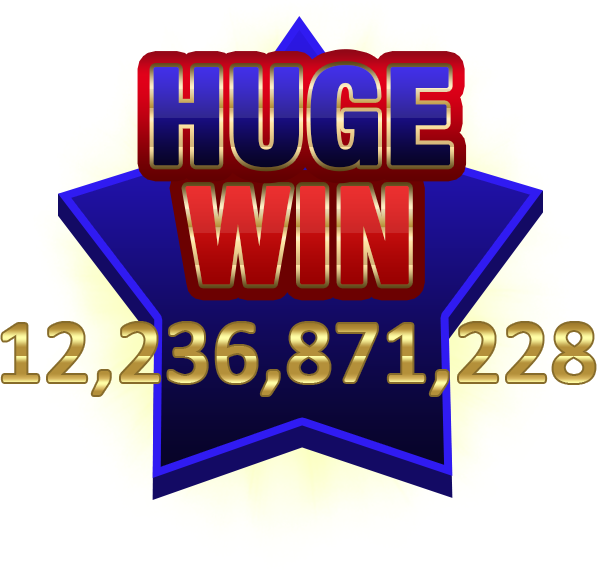
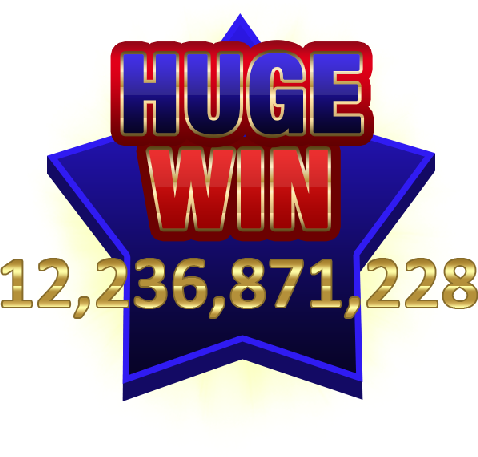
Created assets for the win score; edited some assets; added cherry slot and added install button.

diff --git a/assets/js/game.js b/assets/js/game.js
@@ -13,13 +13,15 @@ function preload() {
     game.load.image('Huge_Win', 'assets/huge-win.png');
     game.load.image('Install_Button', 'assets/install-btn.png');
     game.load.image('Lines_Number', 'assets/lines-number.png');
-    game.load.image('Numbers_Top', 'assets/number-button.png');
+    game.load.image('WinScore_1', 'assets/number-button2.png');
+    game.load.image('WinScore_2', 'assets/number-button.png');
     game.load.image('Reel_Background', 'assets/reel-bg.png');
     game.load.image('Reel_Border', 'assets/reel-border.png');
     game.load.image('Reel_Overlay', 'assets/reel-overlay.png');
     game.load.image('Slot_Machine', 'assets/slotmachine-transparant2.png');
     game.load.image('Slots_Bar', 'assets/slots-bar.png');
     game.load.image('Slots_Bar_Lighter', 'assets/slots-bar-lighter.png');
+    game.load.image('Slots_Cherry', 'assets/slots-cherry.png');
     game.load.image('Slots_Crown', 'assets/slots-crown.png');
     game.load.image('Slots_Diamond', 'assets/slots-diamond.png');
     game.load.image('Slots_Diamond_Lighter', 'assets/slots-diamond-lighter.png');
@@ -46,15 +48,18 @@ const SLOT_TYPE = {
     "LEMON": 1,
     "MELON": 2,
     "TEN": 3,
-    "CROWN": 4,
-    "SEVEN": 5,
-    "DIAMOND": 6,
+    "CHERRY": 4,
+    "CROWN": 5,
+    "SEVEN": 6,
+    "DIAMOND": 7,
 }
 
 let counter;
 let slotStopped;
 let image, sprite;
+let installButton;
 let darkBackground;
+let winScore1, winScore2;
 let slotMachineBackground;
 let background, background2
 let startMachine, firstPhase;
@@ -90,23 +95,26 @@ function create() {
     game.physics.startSystem(Phaser.Physics.ARCADE);
 
     // Creates layers and adds a group to each. The groups are ordered from lowest to highest.
-    backgroundLayer = game.add.group();
+    lowestLayer = game.add.group();
     reelBackgroundLayer = game.add.group();
     slotsLayer = game.add.group();
     reelOverlayLayer = game.add.group();
     slotMachineLayer = game.add.group();
     reelBorderLayer = game.add.group();
     interactionLayer = game.add.group();
+    backgroundLayer = game.add.group();
     highestLayer = game.add.group();
 
+    // Illusion of background so when images are added you won't see them on the top left corner.
     background2 = game.add.image(0, 0, 'Background_2');
-    background2.scale.setTo(0.58, 0.63);
-    interactionLayer.add(background2);
+    background2.scale.setTo(0.598, 0.6232);
+
+    backgroundLayer.add(background2);
 
     background = game.add.image(game.world.centerX, game.world.centerY, 'Background');
     background.anchor.set(0.5, 0.5);
     background.scale.setTo(0.58, 0.63);
-    backgroundLayer.add(background);
+    lowestLayer.add(background);
 
     // Adds the reel background.
     reelBackground1 = game.add.image(195, 166, 'Reel_Background');
@@ -220,19 +228,35 @@ function create() {
 
     darkBackground = game.add.sprite(0, 0, 'Background_Overlay');
     darkBackground.visible = false;
-    interactionLayer.add(darkBackground);
+    backgroundLayer.add(darkBackground);
 
     bigWin = game.add.sprite(game.world.centerX, game.world.centerY, 'Big_Win');
     bigWin.anchor.set(0.5, 0.5)
-    bigWin.scale.setTo(0.7, 0.7);
+    bigWin.scale.setTo(0.75, 0.75);
     bigWin.visible = false;
     highestLayer.add(bigWin);
 
     hugeWin = game.add.sprite(game.world.centerX, game.world.centerY + 15, 'Huge_Win');
     hugeWin.anchor.set(0.5, 0.5);
-    hugeWin.scale.setTo(0.7, 0.7);
+    hugeWin.scale.setTo(0.75, 0.75);
     hugeWin.visible = false;
     highestLayer.add(hugeWin);
+
+    winScore1 = game.add.sprite(306, 393, 'WinScore_1');
+    winScore1.scale.setTo(0.7, 0.7);
+    winScore1.visible = false;
+    interactionLayer.add(winScore1)
+
+    winScore2 = game.add.sprite(296, 393, 'WinScore_2');
+    winScore2.scale.setTo(0.7, 0.7);
+    winScore2.visible = false;
+    interactionLayer.add(winScore2);
+
+    installButton = game.add.sprite(game.world.centerX + 4, game.world.centerY + 120, 'Install_Button');
+    installButton.anchor.set(0.5, 0.5);
+    installButton.scale.setTo(0.6, 0.6);
+    installButton.visible = false;
+    highestLayer.add(installButton);
 }
 
 // Executed per frame.
@@ -314,8 +338,11 @@ function actionOnUp(onClick) {
 
                     // Delays 0.2 seconds before showing a pop-up.
                     setTimeout(() => {
+                        sprite.visible = false;
+                        winScore1.visible = true;
                         darkBackground.visible = true;
                         bigWin.visible = true;
+
                         // Animation for the pop-up.
                         winAnimation(bigWin);
                     }, 1000);
@@ -326,6 +353,9 @@ function actionOnUp(onClick) {
             topBarsGlow.visible = false;
             bigWin.visible = false;
             darkBackground.visible = false;
+            topDiamondsGlow.visible = false;
+            hugeWin.visible = false;
+            installButton.visible = false;
         }
 
         // For the last spin we make it so the diamonds blink all at once after the slots stopped spinning.
@@ -337,16 +367,17 @@ function actionOnUp(onClick) {
                 }
                 // Delays 0.2 seconds before showing a pop-up.
                 setTimeout(() => {
+                    sprite.visible = false;
+                    winScore1.visible = false;
+                    winScore2.visible = true;
                     darkBackground.visible = true;
                     hugeWin.visible = true;
+
                     // Animation for the pop-up.
                     winAnimation(hugeWin);
+                    installButton.visible = true;
                 }, 1100);
             }, 5000);
-        } else {
-            topDiamondsGlow.visible = false;
-            hugeWin.visible = false;
-            darkBackground.visible = false;
         }
     }
 }
@@ -371,6 +402,9 @@ function slotSelection(type) {
             break;
         case SLOT_TYPE.TEN:
             image = game.add.sprite(0, 124, 'Slots_Ten');
+            break;
+        case SLOT_TYPE.CHERRY:
+            image = game.add.sprite(0, 124, 'Slots_Cherry');
             break;
         case SLOT_TYPE.CROWN:
             image = game.add.sprite(0, 124, 'Slots_Crown');
@@ -515,5 +549,5 @@ function bounceSlotMachine(slot) {
 function winAnimation(popup) {
     let tweenTransform = popup;
     tweenTransform = game.add.tween(popup.scale);
-    tweenTransform.to({ x: 0.73, y: 0.73 }, 300, Phaser.Easing.Linear.None, true, 0, 300, true);
+    tweenTransform.to({ x: 0.7, y: 0.7 }, 300, Phaser.Easing.Linear.None, true, 0, 300, true);
 }
